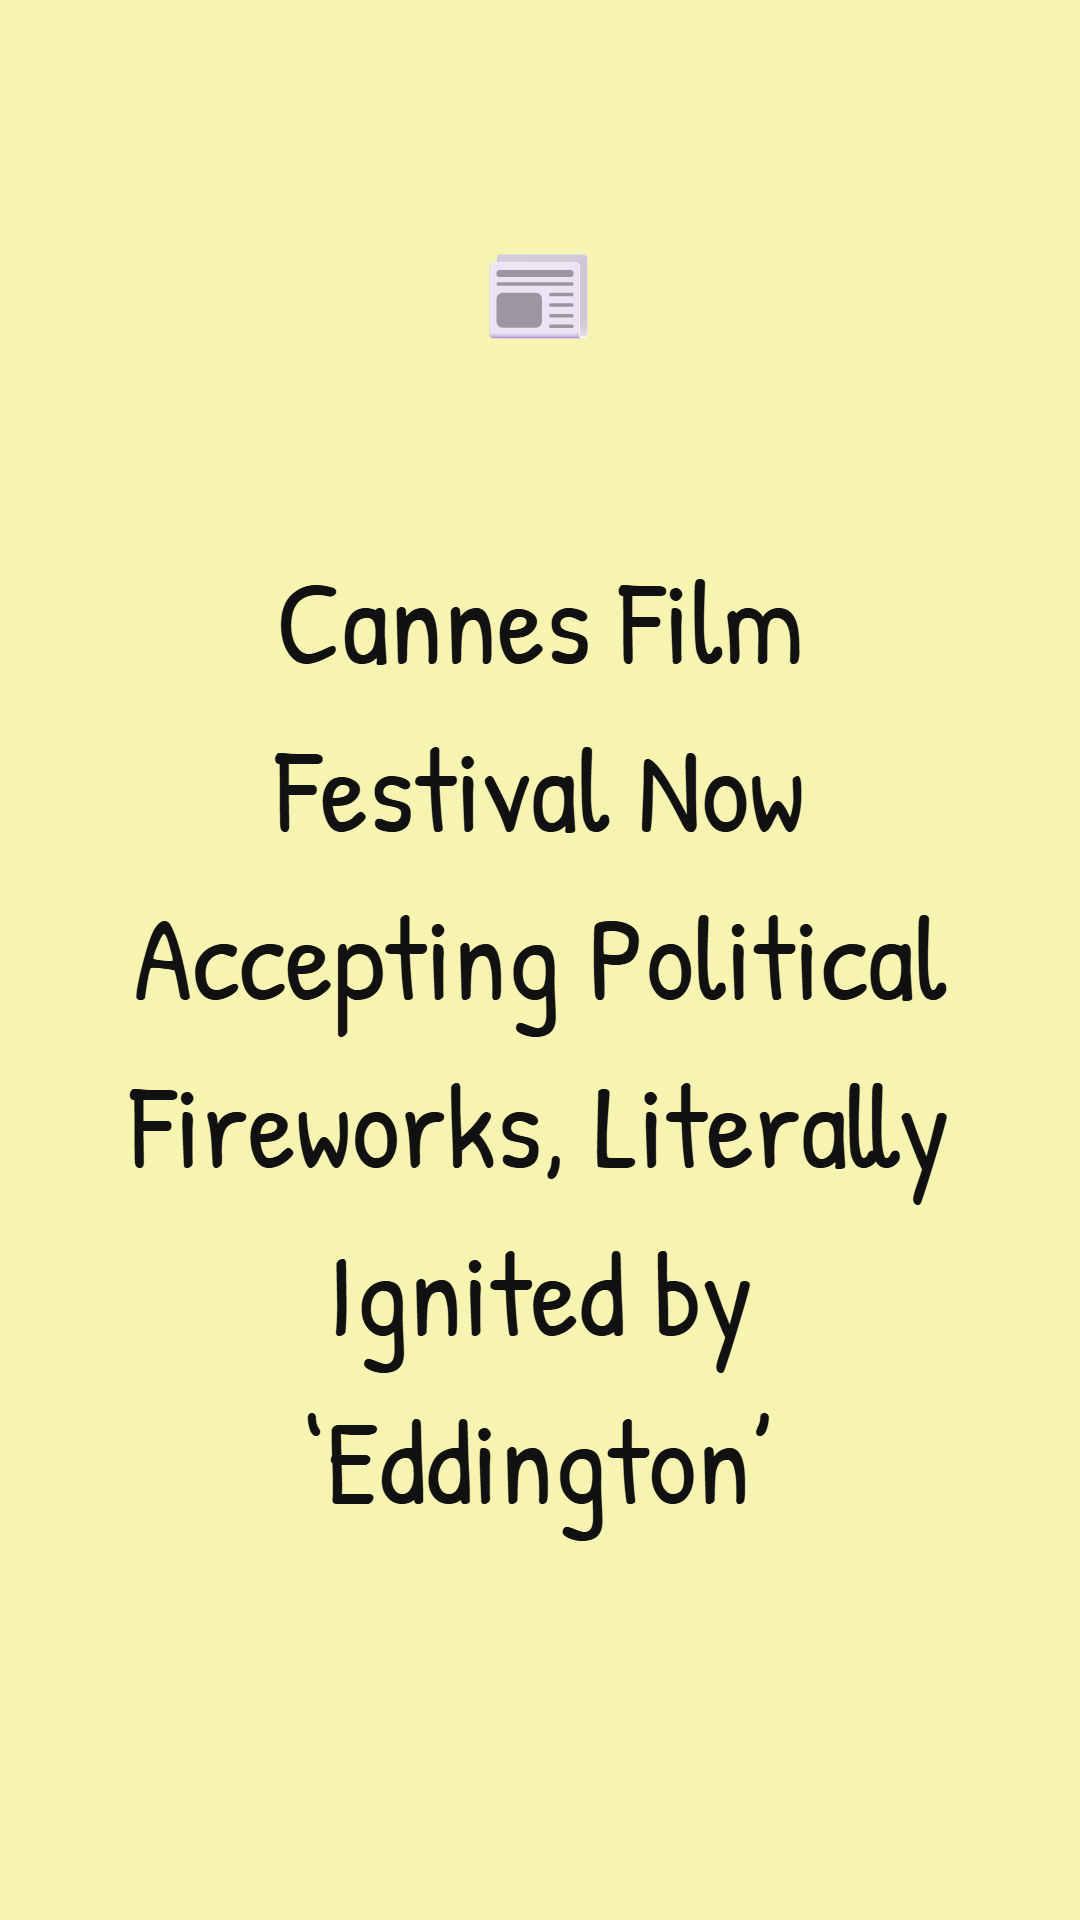
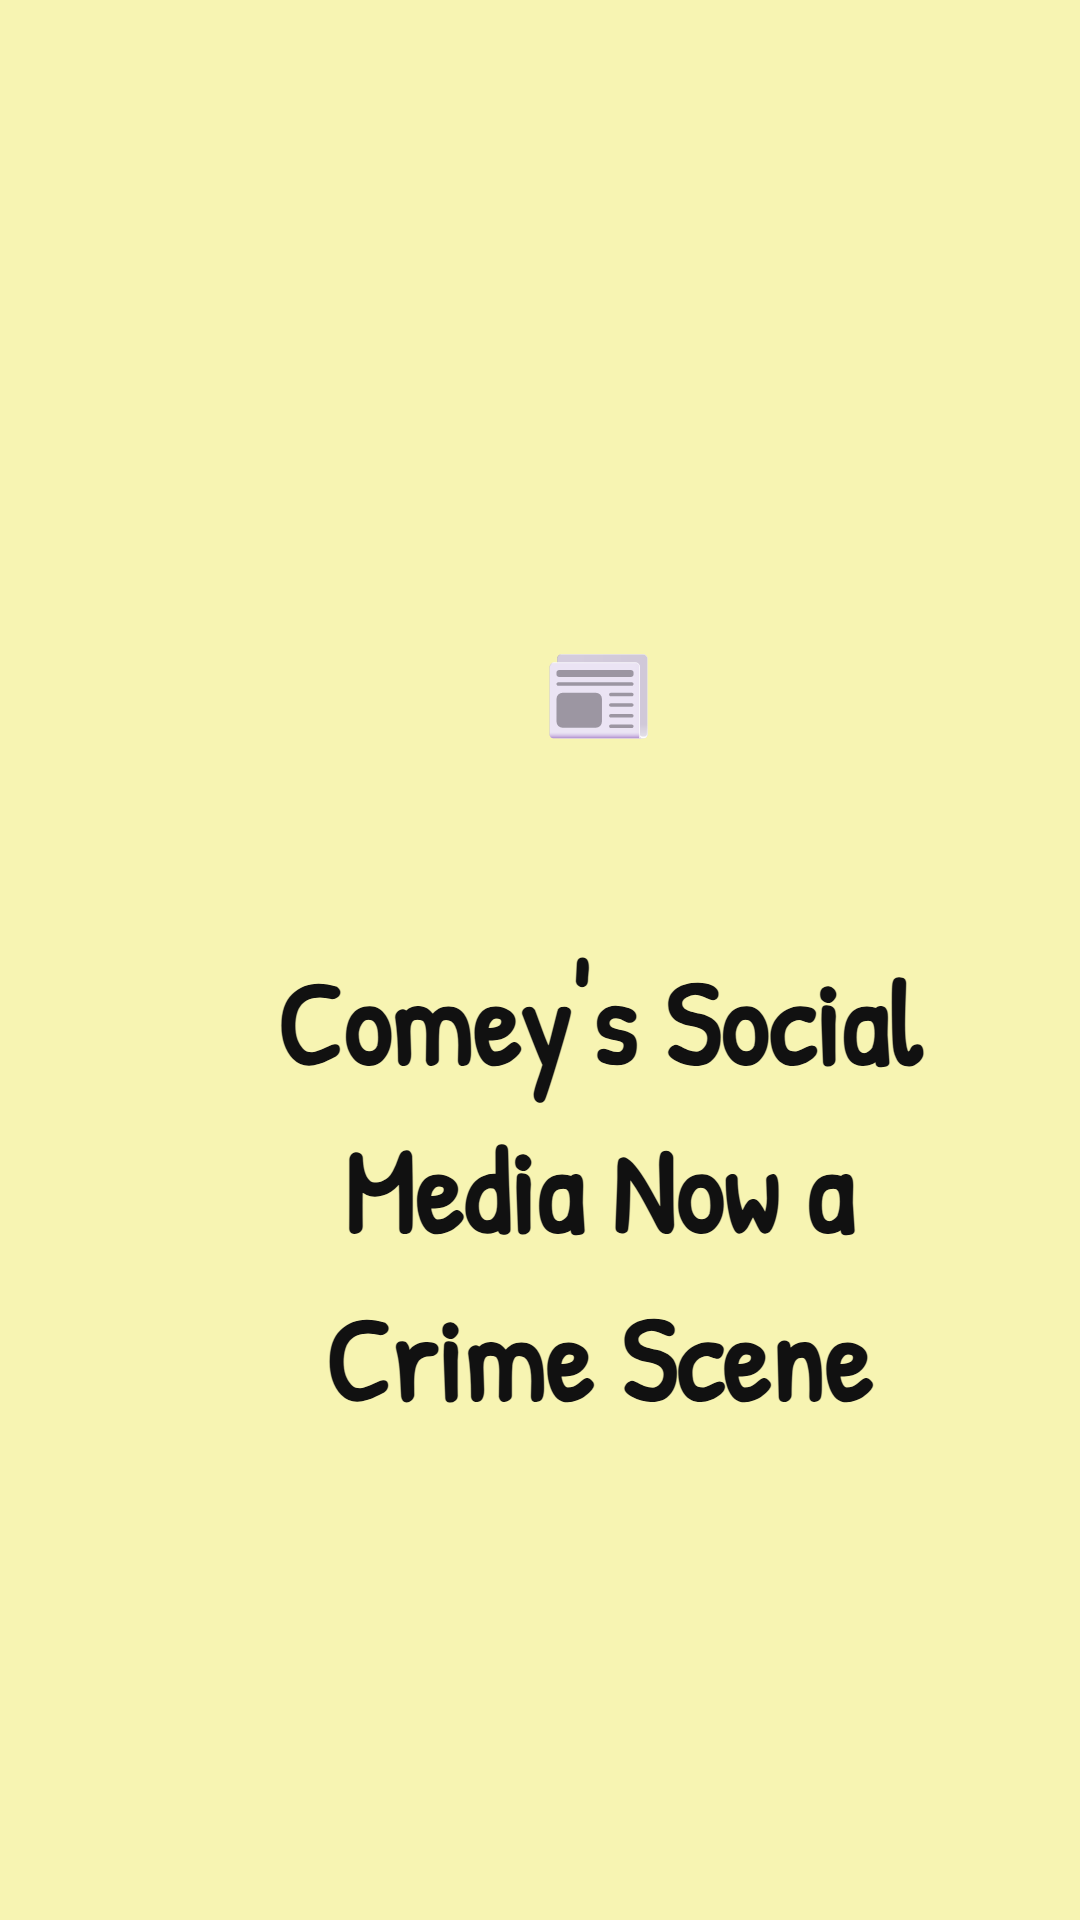
Update core logic and templates, exclude slides

Changed region(s): [[0.1222, 0.4688, 0.8861, 0.8125], [0.2444, 0.2812, 0.7639, 0.4375], [0.4583, 0.125, 0.55, 0.1875]]

diff --git a/web/templates/data_tracker.html b/web/templates/data_tracker.html
@@ -1,7 +1,7 @@
 {% extends "base.html" %}
 
 {% block content %}
-<h1>📊 Facebook Ad Tracker</h1>
+<h1>📊 Data Tracker</h1>
 
 <form method="POST" class="ad-form">
     <label>Date: <input type="date" name="date" value="{{ date.today() }}"></label><br>
@@ -10,6 +10,9 @@
     <label>Clicks: <input type="number" name="clicks"></label><br>
     <label>Leads: <input type="number" name="leads"></label><br>
     <label>Notes: <textarea name="notes" rows="2" cols="40"></textarea></label><br>
+    <label>Reach: <input type="number" name="reach"></label><br>
+    <label>Frequency: <input type="number" name="frequency" step="0.1"></label><br>
+    <label>Campaign Name: <input type="text" name="campaign_name"></label><br>
     <button type="submit">💾 Save Entry</button>
 </form>
 
@@ -20,26 +23,44 @@
     <thead>
         <tr>
             <th>Date</th>
+            <th>Campaign</th>
             <th>Spend (£)</th>
             <th>Impressions</th>
             <th>Clicks</th>
             <th>Leads</th>
+            <th>CTR (%)</th>
+            <th>CPC (£)</th>
+            <th>Conv. Rate (%)</th>
             <th>CPL (£)</th>
+            <th>Reach</th>
+            <th>Frequency</th>
             <th>Notes</th>
         </tr>
     </thead>
+
     <tbody>
         {% for row in rows %}
         <tr>
             <td>{{ row.date }}</td>
+            <td>{{ row.campaign_name or "-" }}</td>
             <td>{{ row.spend or "-" }}</td>
             <td>{{ row.impressions or "-" }}</td>
             <td>{{ row.clicks or "-" }}</td>
             <td>{{ row.leads or "-" }}</td>
+            <td>{{ row.ctr if row.ctr is not none else "-" }}</td>
+            <td>{{ row.cpc if row.cpc is not none else "-" }}</td>
+            <td>{{ row.conversion_rate if row.conversion_rate is not none else "-" }}</td>
             <td>{{ row.cpl if row.cpl is not none else "-" }}</td>
+            <td>{{ row.reach or "-" }}</td>
+            <td>{{ row.frequency or "-" }}</td>
             <td>{{ row.notes or "-" }}</td>
         </tr>
         {% endfor %}
     </tbody>
 </table>
+
+<form method="POST" action="{{ url_for('analyze_data') }}">
+    <button type="submit">🧠 Analyze with AI</button>
+</form>
+
 {% endblock %}

diff --git a/slides/slide3_teaser.html b/slides/slide3_teaser.html
@@ -11,12 +11,12 @@
         display: flex;
         justify-content: center;
         position: relative;
-        align-items: center; justify-content: center; padding: 60px;
+        align-items: center; justify-content: flex-start; padding-top: 150px;
       }
       .meme {
         width: 80%;
         max-width: 900px;
-        font-size: 72px;
+        font-size: 90px;
         line-height: 1.4;
         text-align: center;
         color: #111;
@@ -36,7 +36,11 @@
     </style>
     <link href="https://fonts.googleapis.com/css2?family=Patrick+Hand&display=swap" rel="stylesheet">
     </head><body>
-      <div class="meme">👀 "Ari Aster's 'Eddington': Cinematic Blender of Chaos - Think You're Ready?"</div>
+      
+        <div style="background-color: rgba(0, 0, 0, 0.05); padding: 40px 60px; border-radius: 40px;">
+            <div class="meme">👀 "Comey's cryptic emoji meltdown: decoding alien messages, or just Twitter illiterate? Prepare for a brain-twist!"</div>
+        </div>
+        
       <div class="slide-number">3/4</div>
     </body></html>
     

diff --git a/slides/slide1_headline.html b/slides/slide1_headline.html
@@ -11,7 +11,7 @@
         display: flex;
         justify-content: center;
         position: relative;
-        align-items: flex-start; justify-content: center; padding-top: 100px;
+        align-items: center; justify-content: center; padding: 60px;
       }
       .meme {
         width: 80%;
@@ -21,7 +21,7 @@
         text-align: center;
         color: #111;
         white-space: pre-wrap;
-        font-weight: normal;
+        font-weight: bold;
       }
       .slide-number {
         position: absolute;
@@ -36,7 +36,7 @@
     </style>
     <link href="https://fonts.googleapis.com/css2?family=Patrick+Hand&display=swap" rel="stylesheet">
     </head><body>
-      <div class="meme"><span style="font-size: 100px;">📰</span><br><br>Cannes Film Festival Now Accepting Political Fireworks, Literally Ignited by ‘Eddington’</div>
+      <div class="meme"><span style="font-size: 100px;">📰</span><br><br>Comey's Social Media Now a Crime Scene</div>
       
     </body></html>
     

diff --git a/slides/slide4_cta.html b/slides/slide4_cta.html
@@ -11,12 +11,12 @@
         display: flex;
         justify-content: center;
         position: relative;
-        align-items: center; justify-content: center; padding: 60px;
+        align-items: center; justify-content: flex-start; padding-top: 180px;
       }
       .meme {
         width: 80%;
         max-width: 900px;
-        font-size: 72px;
+        font-size: 90px;
         line-height: 1.4;
         text-align: center;
         color: #111;
@@ -38,9 +38,9 @@
     </head><body>
       
         <div style="background-color: rgba(0, 0, 0, 0.05); padding: 40px 60px; border-radius: 40px;">
-            <div class="meme">👉 Discover if you can handle Aster's chaotic cinematic cocktail</div>
+            <div class="meme">👉 Tap to unravel the Comey Emoji Conspiracy</div>
         </div>
         
-      
+      <div class="slide-number">4/4</div>
     </body></html>
     

diff --git a/web/templates/ai_analysis.html b/web/templates/ai_analysis.html
@@ -1,0 +1,7 @@
+{% extends "base.html" %}
+
+{% block content %}
+<h1>🧠 AI Analysis Report</h1>
+<pre style="white-space: pre-wrap;">{{ analysis }}</pre>
+<a href="{{ url_for('data_tracker') }}">← Back to Data Tracker</a>
+{% endblock %}

diff --git a/web/app.py b/web/app.py
@@ -19,6 +19,10 @@ from utils.database.db import unsubscribe_email  # we'll add this below
 from utils.email.email_sender import send_email
 from utils.email.email_reader import fetch_parsed_emails, fetch_email_by_key
 
+from openai import OpenAI
+
+# Load OpenAI API key from environment
+openai_client = OpenAI(api_key=os.getenv("OPENAI_API_KEY"))
 
 from dotenv import load_dotenv
 load_dotenv()
@@ -267,8 +271,8 @@ def logout():
 
 
 
-@app.route("/ad-tracker", methods=["GET", "POST"])
-def ad_tracker():
+@app.route("/data-tracker", methods=["GET", "POST"])
+def data_tracker():
     if not session.get("inbox_auth"):
         abort(401)
 
@@ -282,19 +286,35 @@ def ad_tracker():
         clicks = request.form.get("clicks")
         leads = request.form.get("leads")
         notes = request.form.get("notes")
+        reach = request.form.get("reach")
+        frequency = request.form.get("frequency")
+        campaign_name = request.form.get("campaign_name")
 
         c.execute("""
-            INSERT INTO ad_metrics (date, spend, impressions, clicks, leads, notes)
-            VALUES (%s, %s, %s, %s, %s, %s)
+            INSERT INTO ad_metrics (date, spend, impressions, clicks, leads, notes, reach, frequency, campaign_name)
+            VALUES (%s, %s, %s, %s, %s, %s, %s, %s, %s)
             ON CONFLICT (date) DO UPDATE SET
               spend = EXCLUDED.spend,
               impressions = EXCLUDED.impressions,
               clicks = EXCLUDED.clicks,
               leads = EXCLUDED.leads,
-              notes = EXCLUDED.notes
-        """, (form_date, spend or None, impressions or None, clicks or None, leads or None, notes))
+              notes = EXCLUDED.notes,
+              reach = EXCLUDED.reach,
+              frequency = EXCLUDED.frequency,
+              campaign_name = EXCLUDED.campaign_name
+        """, (
+            form_date,
+            spend or None,
+            impressions or None,
+            clicks or None,
+            leads or None,
+            notes,
+            reach or None,
+            frequency or None,
+            campaign_name,
+        ))
         conn.commit()
-        return redirect(url_for("ad_tracker"))
+        return redirect(url_for("data_tracker"))
 
     c.execute("SELECT * FROM ad_metrics ORDER BY date DESC")
     rows = c.fetchall()
@@ -305,9 +325,15 @@ def ad_tracker():
         try:
             spend = float(row["spend"]) if row["spend"] else 0
             leads = int(row["leads"]) if row["leads"] else 0
+            clicks = int(row["clicks"]) if row["clicks"] else 0
+            impressions = int(row["impressions"]) if row["impressions"] else 0
+
             cpl = round(spend / leads, 2) if spend and leads else None
+            ctr = round(clicks / impressions * 100, 2) if clicks and impressions else None
+            cpc = round(spend / clicks, 2) if spend and clicks else None
+            conversion_rate = round(leads / clicks * 100, 2) if leads and clicks else None
         except:
-            cpl = None
+            cpl = ctr = cpc = conversion_rate = None
 
         processed_rows.append({
             "date": row["date"],
@@ -316,11 +342,61 @@ def ad_tracker():
             "clicks": row["clicks"],
             "leads": row["leads"],
             "notes": row["notes"],
-            "cpl": cpl
+            "reach": row["reach"],
+            "frequency": row["frequency"],
+            "campaign_name": row["campaign_name"],
+            "cpl": cpl,
+            "ctr": ctr,
+            "cpc": cpc,
+            "conversion_rate": conversion_rate
         })
 
-    return render_template("ad_tracker.html", rows=processed_rows, date=date)
+    return render_template("data_tracker.html", rows=processed_rows, date=date)
 
+@app.route("/analyze-data", methods=["POST"])
+def analyze_data():
+    if not session.get("inbox_auth"):
+        abort(401)
+
+    conn = get_connection()
+    c = conn.cursor(cursor_factory=psycopg2.extras.DictCursor)
+    c.execute("SELECT * FROM ad_metrics ORDER BY date DESC LIMIT 30")
+    rows = c.fetchall()
+    conn.close()
+
+    data = []
+    for row in rows:
+        data.append({
+            "date": str(row["date"]),
+            "spend": row["spend"],
+            "impressions": row["impressions"],
+            "clicks": row["clicks"],
+            "leads": row["leads"],
+            "reach": row["reach"],
+            "frequency": row["frequency"],
+            "campaign_name": row["campaign_name"],
+            "notes": row["notes"],
+        })
+
+    prompt = (
+        "Analyze the following Facebook ad data and provide insights:\n"
+        "1. What is the data showing?\n"
+        "2. What improvements or changes should be made?\n\n"
+        f"{data}"
+    )
+
+    # Use your existing client style
+    response = openai_client.chat.completions.create(
+        model="gpt-4",
+        messages=[
+            {"role": "system", "content": "You are a digital marketing analyst."},
+            {"role": "user", "content": prompt}
+        ]
+    )
+
+    analysis = response.choices[0].message.content
+
+    return render_template("ai_analysis.html", analysis=analysis)
 
 
 

diff --git a/utils/email/send_subscriber_summary.py b/utils/email/send_subscriber_summary.py
@@ -1,0 +1,41 @@
+import psycopg2
+import os
+from dotenv import load_dotenv
+from utils.email.email_sender import send_email  # ✅ using SES helper
+
+load_dotenv()
+
+# Connect to PostgreSQL
+conn = psycopg2.connect(os.getenv("DATABASE_URL"))
+cursor = conn.cursor()
+
+# Count new subscribers in the last 8 hours
+cursor.execute("""
+    SELECT COUNT(*) FROM subscribers
+    WHERE subscribed_at >= NOW() - INTERVAL '8 HOURS';
+""")
+count = cursor.fetchone()[0]
+
+cursor.close()
+conn.close()
+
+# Subject line (ASCII-safe)
+subject = f"LieFeed - {count} new signup{'s' if count != 1 else ''} today"
+
+# HTML email body
+html_body = f"""
+<h2>📈 LieFeed Daily Summary</h2>
+<p>You had <strong>{count}</strong> new subscriber{'s' if count != 1 else ''} in the last 8 hours.</p>
+<p><a href="https://liefeed.com">Visit the site</a> to see more.</p>
+"""
+
+# Plain-text fallback
+text_body = f"You had {count} new subscriber{'s' if count != 1 else ''} in the last 8 hours. Visit https://liefeed.com to view more."
+
+# Send the email
+send_email(
+    recipient=os.getenv("CONTACT_RECEIVER_EMAIL"),
+    subject=subject,
+    html_body=html_body,
+    text_body=text_body
+)

diff --git a/utils/email/email_sender.py b/utils/email/email_sender.py
@@ -1,5 +1,8 @@
-import boto3
 import os
+from dotenv import load_dotenv
+load_dotenv()  # ✅ MAKE SURE THIS IS CALLED HERE
+
+import boto3
 from botocore.exceptions import ClientError
 import mimetypes
 from email.mime.multipart import MIMEMultipart
